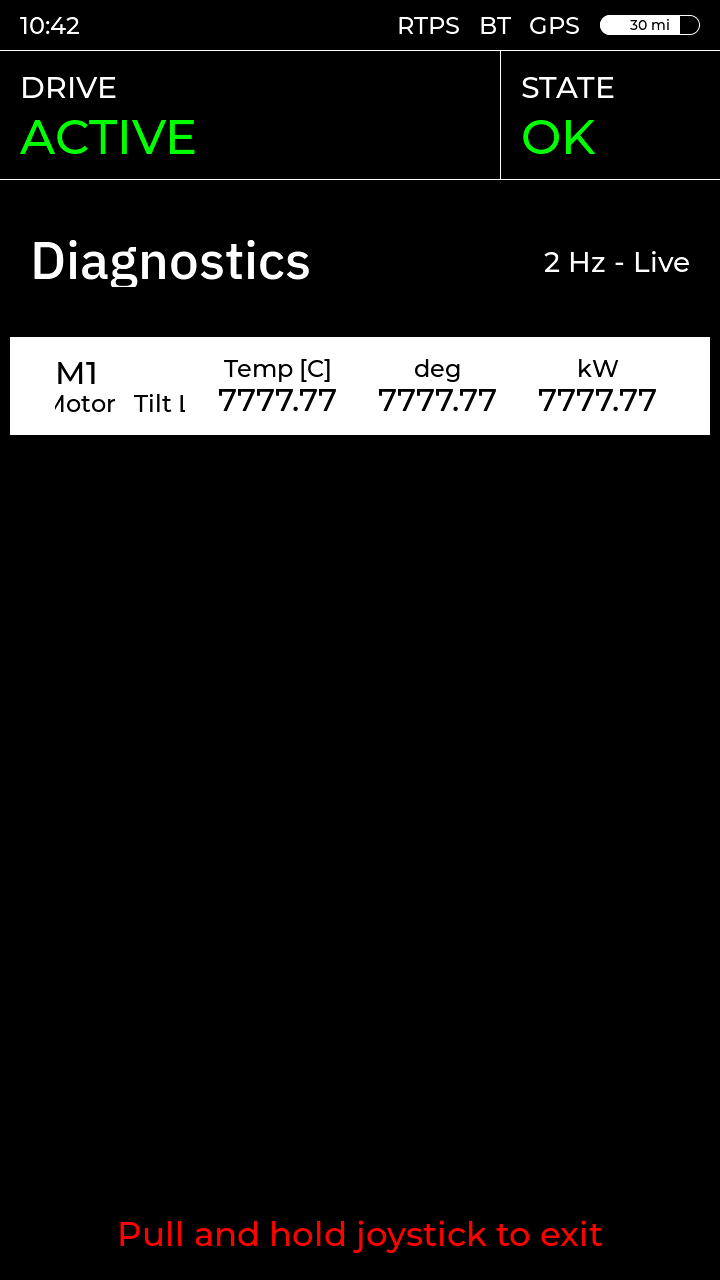
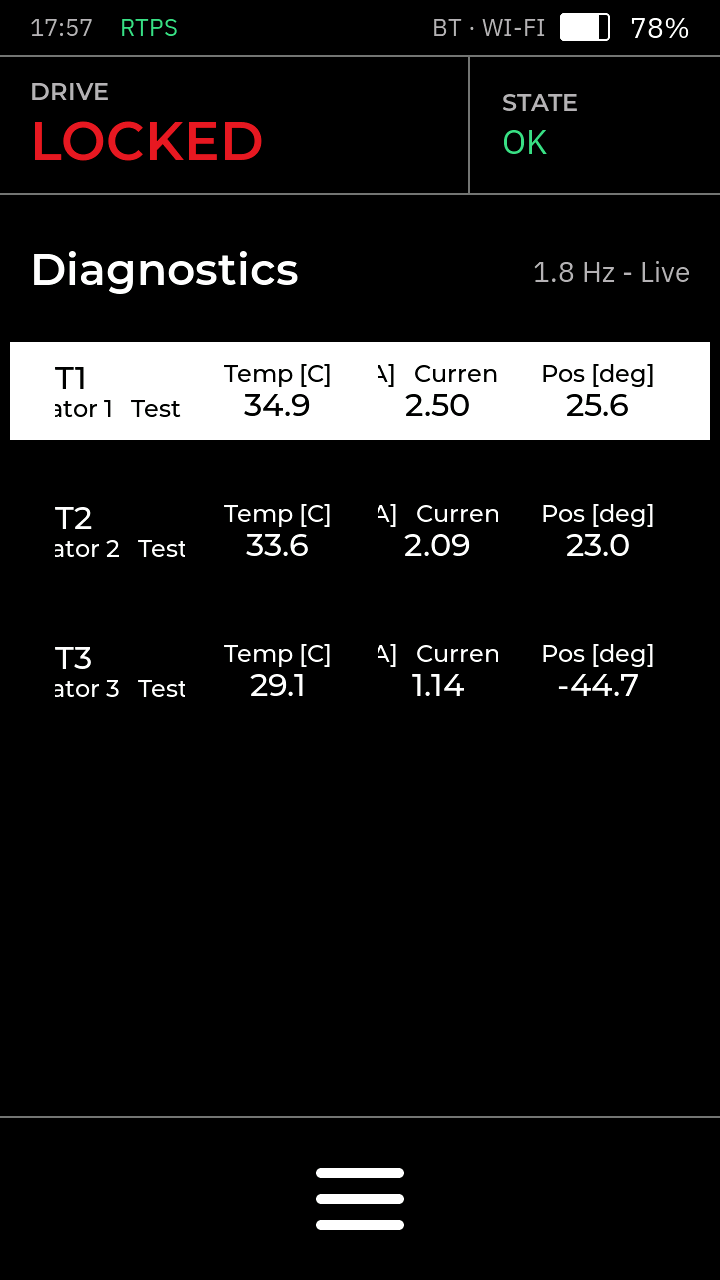
Document the spec-V2 UI: README screens and menu, and how the UI works
- README: new screenshots from the board (the Locked screen, the burger
  menu, Drive, both Seat pages, Skunk Works, UI Settings, Diagnostics,
  Log, the bench gate, DEBUG ACTUATORS, Joystick). The menu and the UI
  Settings rows are tables. Driving is described as it now is: hold the
  button, the MIB decides. The drive modes map to their profiles. Screens
  of the old pager are removed.
- docs/ui-architecture.md: how the UI works, for someone who wrote the
  spec rather than the code. It covers the path from the spec to pixels,
  the chrome and the per-screen menu instances, how a menu row is wired
  and how to add one, focus groups, grids and holds, how the chair's
  state reaches the screen, and the tools for seeing it without the panel.

diff --git a/docs/ui-architecture.md b/docs/ui-architecture.md
@@ -1,0 +1,253 @@
+# How the UI works
+
+This explains the HMI's user interface, from the spec PDF to a finger on the panel: where
+the screens come from, how the burger menu is built and wired, how touch and the joystick
+move around it, and how the chair's state reaches the screen. It is written for someone who
+knows the spec and wants to know where each part of it lives in the code.
+
+Everything below lives in `main/main.cpp` unless a file is named.
+
+## 1. From the spec to pixels
+
+The screens are not drawn by hand in the firmware. They are described once, in code, in
+the UI repository ([pace-hmi-gui](https://github.com/rammp-org/pace-hmi-gui)), and exported
+to C that the firmware compiles.
+
+```mermaid
+flowchart LR
+  spec["RAMMP-UI-Spec-V2.pdf<br/>(pace-hmi-gui)"] -->|numbers copied into| build["tools/build_ui.py<br/>(pace-hmi-gui)"]
+  build -->|writes| spj["pace-hmi-ui.spj<br/>SquareLine project"]
+  spj -->|SquareLine CLI export| cfiles["ui_c_files/<br/>generated C"]
+  cfiles -->|import_ui.ps1| ui["components/ui/<br/>(this repo, never edited)"]
+  ui -->|ui_* widgets, bound by name| fw["main/main.cpp<br/>behaviour"]
+```
+
+- **`tools/build_ui.py`** is the design. Every screen, component, size, font and colour is a
+  line of Python with the spec's numbers in it (`build_locked`, `build_drive`,
+  `build_menuoverlay`, `build_seat_axis`, ...). Running it rewrites the SquareLine project
+  and, with `--export-to ../ui_c_files`, exports the C.
+- **`import_ui.ps1`** (this repo) mirrors that export into `components/ui/`, converts the
+  images the software renderer cannot draw, and runs **`scripts/ui_contract.py`**, which
+  checks that every widget `main.cpp` reaches for still exists with the parent and text it
+  expects. A menu row that moved, or a widget that was renamed, fails the import instead of
+  silently binding to the wrong thing.
+- **`components/ui/`** is generated. Editing it by hand is lost on the next import.
+- **`main.cpp`** gives the widgets their behaviour. It finds them by name: a screen widget
+  is a global `ui_<Name>` (`ui_SeatBackButton`), a widget inside a component is reached with
+  `ui_comp_get_child(instance, UI_COMP_<COMPONENT>_<CHILD>)`.
+
+The design is decoupled from the code in one direction only: `build_ui.py` can move, resize
+and restyle anything freely, but renaming or removing a widget the firmware binds to needs
+a matching change in `main.cpp` and in `ui_contract.py`.
+
+## 2. What is on the panel
+
+Every screen is 720 x 1280 and shares one layout:
+
+| band | y | what |
+| --- | --- | --- |
+| TopBar | 0-55 | clock, RTPS link, battery |
+| DriveBand | 55-195 | DRIVE (LOCKED / ACTIVE) and STATE; DRIVE is also the "home" button |
+| body | 195-1116 | the screen's own content, 921 px |
+| MenuKey | 1116-1280 | the burger key |
+
+Two layers sit over the body, hidden until needed: the **MenuOverlay** (the burger menu)
+and the **ErrorBanner** (warnings and refusals). These five pieces, TopBar, DriveBand,
+ErrorBanner, MenuKey and MenuOverlay, are the *chrome*.
+
+| screen | spec | reached from |
+| --- | --- | --- |
+| LockedScreen | 01 | boot; Drive row while locked; DRIVE in the band |
+| DriveScreen | 02 | holding the stick button on Locked, once the MIB grants it |
+| SeatScreen | 04, 04b | menu: Seat Functions |
+| BenchGateScreen | - | menu: Bench (the PIN, then DEBUG ACTUATORS) |
+| DiagnosticsScreen | - | menu: Diagnostics |
+| JoystickScreen | - | menu: Joystick (the stick test and CALIBRATE) |
+| LogScreen | - | menu: Log |
+| SkunkWorksScreen | - | menu: Skunk Works |
+| SettingsScreen | - | menu: UI Settings; after the PIN, DEBUG ACTUATORS |
+
+SettingsScreen, SkunkWorksScreen and DiagnosticsScreen are built when first opened and
+destroyed on the way out ("Screens built on demand" in `main.cpp`): their rows are
+generated at runtime, and keeping them all resident ran internal RAM out.
+
+## 3. The burger menu
+
+### One component, one instance per screen
+
+The menu is a SquareLine *component*, `MenuOverlay`, drawn by `build_menuoverlay` in
+`build_ui.py`: a 720 x 921 panel with eight rows, 115 px each. Each row is a `Row<n>` panel
+holding a `RowGround<n>` with a `RowLabel<n>` and a chevron.
+
+LVGL screens are separate object trees, so a widget cannot appear on two of them. Every
+screen therefore has its own instance of all the chrome, `MenuOverlay1` ... `MenuOverlay11`,
+each with its own eight rows. The firmware treats them as one menu:
+
+- **`kChrome`** (in `app_main`) lists every screen's TopBar, DriveBand, MenuKey and
+  MenuOverlay.
+- **`nav_attach_chrome`** wires one screen's set: the key's click and key events, and for
+  each of the eight rows the click, the stick's arrows, the cursor and pressed looks, and,
+  on Drive and Seat Functions, the observers that grey the row while the MCB could not act
+  on it.
+- **`nav_chrome[]`** remembers which key and overlay belong to which screen, so "the menu of
+  the screen that is up" is one lookup (`nav_chrome_of`).
+
+### Rows are positions, destinations are names
+
+The menu's order is the order of `rows` in `build_menuoverlay`. The firmware mirrors it in
+one enum:
+
+```cpp
+enum NavDest {
+  NAV_DRIVE,    // "Drive"
+  NAV_SEAT,     // "Seat Functions"
+  NAV_BENCH,    // "Bench", behind the PIN gate
+  ...
+};
+```
+
+A row's index is its `NavDest`: `nav_row_cb` receives the index and `nav_go` switches on it.
+`scripts/ui_contract.py` checks that `RowLabel<n>` still reads what the enum expects, so a
+reordered export cannot open the wrong screen.
+
+**To add, remove or reorder a row**, change all of these together:
+
+1. `rows` in `build_menuoverlay` (pace-hmi-gui), then export and import.
+2. `NavDest` and `kNavRowIds` in `main.cpp` (a new row also needs `UI_COMP_MENUOVERLAY_ROW<n>`).
+3. The `case` in `nav_go`, and its line in `nav_go`'s `dest_screens` table.
+4. `cui_RowLabel<n>` in `scripts/ui_contract.py`, and `MENU_ROWS` in `scripts/hmi_ui.py`.
+
+### What happens on a pick
+
+```mermaid
+sequenceDiagram
+  participant U as User
+  participant K as MenuKey
+  participant M as MenuOverlay
+  participant N as nav_go
+  participant S as next screen
+  U->>K: tap, or stick button with the key focused
+  K->>M: nav_open_menu: show, fill menu_group, focus row 1
+  U->>M: tap a row, or stick button on it
+  M->>M: row goes negative for 300 ms (kRowPressMs)
+  M->>N: nav_press_done_cb
+  N->>S: _ui_screen_change
+  S->>S: SCREEN_LOADED -> nav_arrive -> nav_enter_screen
+  S->>S: nav_drop_menu replays the press and hides its overlay
+```
+
+- A greyed row (Drive or Seat Functions while the MCB cannot act) refuses on the spot: the
+  menu stays open, the refusal sounds, and the reason waits on the banner underneath.
+- While **driving**, the key does not open the menu. It asks the MIB to stop
+  (`drive_exit_ask(true)`), and the menu opens over the Locked screen once driving has
+  actually stopped. If the MIB keeps driving, the Drive screen stays and says EXIT REFUSED.
+
+## 4. Moving around: touch, stick and button
+
+There are three inputs, and all of them end up as LVGL events on widgets.
+
+| input | where it comes from | becomes |
+| --- | --- | --- |
+| touch | GT911, polled by LVGL | taps and presses on whatever is under the finger |
+| stick | ADC task, ~30 Hz | a key (UP/DOWN/LEFT/RIGHT) for the focused widget |
+| stick button | GPIO48 | a short press selects (ENTER); a hold is a gesture |
+
+### Focus groups
+
+The stick moves a *cursor*: LVGL's focus within a **group**. Each screen has its own group
+of the widgets the stick may visit, and `nav_use_group` hands the stick that group, always
+with the screen's burger key appended last, so "down past the bottom" reaches the key.
+
+| group | screen |
+| --- | --- |
+| `menu_group` | the open menu: eight rows, then the key (wraps) |
+| `seat_group`, `seat_adjust_group` | Seat: the function buttons; the adjustment page |
+| `rd_group` | BenchGate: the PIN pad |
+| `setting_group`, `actions_group`, `diag_group` | UI Settings, Skunk Works, Diagnostics |
+| `log_view_group()` (`main/log_view.cpp`) | Log |
+| `joystick_group` | everything else: Locked, Drive, Joystick |
+
+`nav_arrive` runs whenever a screen comes up (SCREEN_LOADED, or by hand when a row picks
+the screen already showing): it closes the menu, picks the screen's group and puts the
+cursor on the first item. A backstop timer re-enters the screen if the stick is ever left
+with nothing focused, and logs `nav: the stick had nothing focused` when it does.
+
+### Grids and lists
+
+LVGL's own focus order is a flat list, which does not match a 2-D screen. Two patterns
+cover every screen:
+
+- **Grids** (`ButtonGrid`, `grid_key_cb`): the seat pages, the PIN pad and the Skunk Works
+  tiles. Each keeps a row/column cursor and moves it the way the buttons are laid out.
+- **Lists** (Settings, Diagnostics, Log): UP/DOWN walks the rows; the list scrolls to keep
+  the focused row in view (scroll-on-focus, which is why each list is sized to its window
+  in `build_ui.py`).
+
+### Looks
+
+The spec's rule is that selection is the *negative* of the resting look, never a colour.
+`negative()` in `build_ui.py` gives a widget inverted colours for PRESSED and CHECKED (and
+FOCUSED on menu rows). LVGL does not pass a state to a widget's children, so the firmware
+mirrors it down to the label (`nav_mirror_states`). Buttons show the cursor as a ring
+around them (`nav_focus_ring`).
+
+### Holds
+
+Three things need a hold rather than a press, driven by `HoldGesture` and `hold_poll`:
+
+| gesture | input | screen | does |
+| --- | --- | --- | --- |
+| `unlock_gesture` | stick button | Locked | asks the MIB to drive (the ring fills, then spins) |
+| `drive_exit_gesture` | stick button | Drive | asks the MIB to stop |
+| `calibrate_gesture` | stick button, or a finger on CALIBRATE | Joystick | starts or cancels calibration |
+
+A hold has a 500 ms grace before it starts filling, so a tap (which selects) never ticks
+it, and an input must be let go before it can start another hold ("let go first"), so the
+hold that enters driving cannot roll on into the exit.
+
+## 5. The chair's state on screen
+
+The MIB owns the chair's state and the HMI only shows it and asks for changes. The data path
+is LVGL *subjects* (observable values) and *observers* (callbacks bound to widgets):
+
+```mermaid
+flowchart LR
+  mib["MIB / MCB"] -- "MibStatus, Diagnostics<br/>(RTPS)" --> rtps["main/rtps_comms.cpp"]
+  rtps --> subj["subjects:<br/>mib_state, rtps_link, drive_profile,<br/>seat_axis_value, error_text, ..."]
+  subj --> obs["observers"]
+  obs --> w["labels, bands, banners,<br/>greyed rows, mode buttons"]
+  w -- "taps, holds" --> ask["drive_ask, seat_request,<br/>drive_publish"]
+  ask -- "DriveCommand, SeatCommand" --> mib
+```
+
+- **Nothing on screen claims what the chair has not confirmed.** A drive mode button lights
+  when `MibStatus.activeProfile` says so, not when it is tapped; a seat number moves when
+  the next status says the seat moved.
+- **`drive_screen_follow_state`** keeps the screens honest: the Drive screen is up exactly
+  while the MIB says ENABLED. Driving stopping by itself brings back Locked with the reason.
+- **Banners**: every warning goes through `banner_show`, which also plays the refusal
+  sound when one appears on the screen in front.
+
+## 6. Settings, sounds and the rest
+
+- **UI Settings** rows come from `main/settings_spec.h`, one line each; the firmware builds
+  a `SettingRow` per line and saves every value to `/storage/settings.txt`. Adding a
+  setting is a table line, its names in `kSettingParamNames`, its subject in
+  `kSettingParamValue`, and a `case` in `setting_store_observer` if it needs applying.
+- **Skunk Works** tiles come from `main/actions_spec.h`, one line each.
+- **Sounds**: `play_click` for a tap, a stick select or a completed hold, and
+  `play_refusal` (two quick clicks) for a greyed press or an arriving warning. The
+  **Sounds** setting silences all of them except warnings.
+- **Themes**: every colour in the design is bound to the theme (Dark, Day), so a theme
+  switch recolours every screen at once.
+- **Rendering**: LVGL draws straight into the panel's two frame buffers (DIRECT mode) and
+  swaps them at vsync. **Flip screen** renders into a PSRAM frame instead and has the PPA
+  turn it 180 degrees into the panel buffer.
+
+## 7. Seeing it without looking at the panel
+
+- `python tools/shot/shoot.py` (pace-hmi-gui) renders every screen of the export through
+  real LVGL on the PC, before anything reaches the board.
+- With `CONFIG_HMI_REMOTE_UI` (off by default; set it only in your local `sdkconfig`), the
+  board serves its screen and takes input over TCP 3333: `scripts/hmi_ui.py shot`, `tap`,
+  `key`, `walk`. `scripts/rtps_mcb_sim.py` or `rtps_mcb_gui.py` play the MIB alongside.

diff --git a/README.md b/README.md
@@ -1,6 +1,6 @@
 # pace-hmi-fw
 
-<img src="docs/screenshots/MainScreenFlex.png" alt="Main Screen" width="260">
+<img src="docs/screenshots/LockedScreen.png" alt="Locked screen" width="200"> <img src="docs/screenshots/MenuOverlay.png" alt="Burger menu" width="200"> <img src="docs/screenshots/DriveScreen.png" alt="Drive screen" width="200">
 
 Firmware for the RAMMP wheelchair HMI: an M5Stack Tab5 (ESP32-P4) on the [RAMMP HMI PCB](https://github.com/rammp-org/pace-hmi-pcb).
 
@@ -8,7 +8,7 @@ Firmware for the RAMMP wheelchair HMI: an M5Stack Tab5 (ESP32-P4) on the [RAMMP 
 - Tab5 (ESP32-P4), 720x1280 portrait touch panel
 - 3D hall joystick (X / Y / twist) on the ADCs, up to 4 buttons on GPIO
 - W5500 SPI Ethernet for RTPS
-- WIP: haptic motor over I2C
+- DRV2605 haptic motor over I2C
 
 ## Build and flash
 - Clone with the shared RTPS spec: `git clone --recursive` (or `git submodule update --init`).
@@ -17,38 +17,54 @@ Firmware for the RAMMP wheelchair HMI: an M5Stack Tab5 (ESP32-P4) on the [RAMMP 
 - Or put the [release](https://github.com/rammp-org/pace-hmi-fw/releases) images in `precompiled/` and run `.\flash_precompiled.ps1` (needs esptool v5+).
 
 ## Screens
-- Joystick only: **push up and hold** to enter, **pull and hold** (or hold the button) to leave. The bottom prompt says which.
-- The UI is designed in SquareLine Studio ([pace-hmi-gui](https://github.com/rammp-org/pace-hmi-gui)); `components/ui/` is its export (`import_ui.ps1`). Don't edit it here.
+
+The UI follows RAMMP UI spec V2. Every screen has the same frame: the status bar, the **DRIVE / STATE** band, the screen's own content, and the **burger key** at the bottom, which opens the menu. [docs/ui-architecture.md](docs/ui-architecture.md) explains how it all works: where the screens come from, how the menu is built, how touch and the joystick move around, and how the chair's state reaches the screen.
+
+- **Driving**: on the Locked screen, **hold the joystick button** until the ring closes. The MIB decides: the Drive screen opens only once it says the chair is driving. Hold the button again on the Drive screen to stop. While driving, the burger key asks the MIB to stop first, and the menu opens once it has.
+- **Moving around**: touch, or the joystick. Push to move the highlight, press the button to select. Down past the last item reaches the burger key.
+- **Refusals**: a greyed row or button refuses with a double click (heard and felt), and a banner says why.
+- The UI is designed in [pace-hmi-gui](https://github.com/rammp-org/pace-hmi-gui) (`tools/build_ui.py` + SquareLine Studio); `components/ui/` is its export, brought in with `import_ui.ps1`. Don't edit it here.
 
 | | | |
 |:--:|:--:|:--:|
-| <img src="docs/screenshots/BootScreen.png" width="200"> | <img src="docs/screenshots/MainScreenFlex.png" width="200"> | <img src="docs/screenshots/DriveScreen.png" width="200"> |
-| Boot splash | Home pager | Drive: speed, drive mode |
-| <img src="docs/screenshots/SeatAdjustmentFlexScreen.png" width="200"> | <img src="docs/screenshots/GenericActionsScreen.png" width="200"> | <img src="docs/screenshots/SpecificSettingScreen.png" width="200"> |
-| Seat functions | Generic actions | Setting page (brightness, actuators) |
-| <img src="docs/screenshots/RDScreen.png" width="200"> | <img src="docs/screenshots/DiagnosticsScreen.png" width="200"> | <img src="docs/screenshots/LogScreen.png" width="200"> |
-| PIN before DEBUG ACTUATORS | Live MCB diagnostics | System logs |
-| <img src="docs/screenshots/JoystickTest.png" width="200"> | | |
-| Joystick test and calibration | | |
+| <img src="docs/screenshots/LockedScreen.png" width="200"> | <img src="docs/screenshots/MenuOverlay.png" width="200"> | <img src="docs/screenshots/DriveScreen.png" width="200"> |
+| Locked: hold the button to drive | The burger menu | Drive: speed, range, drive mode |
+| <img src="docs/screenshots/SeatScreen.png" width="200"> | <img src="docs/screenshots/SeatAxisScreen.png" width="200"> | <img src="docs/screenshots/SkunkWorksScreen.png" width="200"> |
+| Seat Functions | One motion: jog, presets, "<" back | Skunk Works: one-press actions |
+| <img src="docs/screenshots/SettingsScreen.png" width="200"> | <img src="docs/screenshots/DiagnosticsScreen.png" width="200"> | <img src="docs/screenshots/LogScreen.png" width="200"> |
+| UI Settings | Live MCB diagnostics | System log |
+| <img src="docs/screenshots/BenchGateScreen.png" width="200"> | <img src="docs/screenshots/BenchMotorsScreen.png" width="200"> | <img src="docs/screenshots/JoystickScreen.png" width="200"> |
+| Bench: the PIN | DEBUG ACTUATORS | Joystick test and CALIBRATE |
 
-- **Drive / Seat**: only enter while the MCB link is up and its state is OK; otherwise a red banner says why.
-- **Generic actions**: one row per entry in `main/actions_spec.h` (haptic test, self test, seat up, restart).
+### The burger menu
 
-## Settings menu
+| row | opens |
+| --- | --- |
+| Drive | the Drive screen while driving, else the Locked screen; greyed while the MCB could not drive |
+| Seat Functions | the four seat motions; greyed while the MCB could not move the seat |
+| Bench | the PIN (1234), then DEBUG ACTUATORS: step each actuator with - / + |
+| Diagnostics | live readings from the MCB |
+| Joystick | the stick test; press and hold CALIBRATE (or the stick button) to calibrate |
+| Log | the last 500 serial log lines |
+| Skunk Works | one-press actions from `main/actions_spec.h`: haptic test, self test, seat up, FPS counter, restart |
+| UI Settings | the settings below |
+
+**DRIVE** in the band goes home from anywhere.
+
+### UI Settings
 
 | row | what it does |
 | --- | --- |
-| CHANGE THEME | switch the colour theme (saved) |
-| SCREEN BRIGHTNESS | backlight 5-100 % (saved); the side button and RTPS can set it too |
-| DIAGNOSTICS | live readings from the MCB, see below |
-| DEBUG ACTUATORS | PIN, then step each actuator with -/+ (the MCB moves it) |
-| SELF TEST | checks the HMI; results on screen and on serial |
-| SYSTEM LOGS | the last 500 serial log lines |
-| FPS COUNTER | show the render rate |
-| HAPTIC TEST | buzz the vibration motor |
-| Joystick Test → CALIBRATE | 6-step stick calibration, saved to flash |
+| Brightness | backlight 5-100 %; the side button and RTPS can set it too |
+| Theme | Dark or Day |
+| Menu slide | animate the menu opening (off = instant) |
+| Flip screen | turn the picture and touch 180 degrees, for a unit mounted upside down |
+| Stick sensitivity | 1-10: how far the stick moves before the highlight does |
+| Stick left/right, Stick fwd/back | mirror an axis |
+| Stick axes | swap X and Y |
+| Sounds | touch and joystick clicks; warnings sound either way |
 
-Saved settings live in LittleFS (`/storage`), so they survive a reboot.
+Every row is one line in `main/settings_spec.h`, and every value is saved in LittleFS (`/storage`), so it survives a reboot. The stick mapping rows are refused while driving.
 
 ## RTPS
 
@@ -95,9 +111,9 @@ How the messages reach the screens:
 - No MibStatus for 2 s → "RTPS LINK LOST"; Drive and Seat are refused.
 - `MibSystemState` is the interlock: the chair drives only in `ENABLED`, and the MIB disables manual seat control while it is driving, so the seat screen needs `IDLE`. `INITIALIZING` and `ERROR` bar both.
 - The MIB decides whether the chair drives, both ways. The DriveScreen is a view of one fact: it opens whenever the state is `ENABLED` and closes when it stops being `ENABLED`, whoever asked — so the screen can never disagree with the chair.
-- Holding the stick up sends a **DriveCommand** and waits. Leaving is a request too: the exit gesture sends `DISABLE` and the screen closes only when the MIB actually stops, so a refused exit keeps you on the drive screen.
-- Picking a drive profile sends a `DriveCommand` carrying it, and the three buttons highlight `MibStatus.activeProfile` — what the MIB reports, never what was pressed. A profile the chair refuses never lights up.
-- Three refusals get the ErrorWarningPanel for 3 s, with the MIB's own `error_message` when it sent one: **DRIVE REFUSED: NOT GRANTED** (asked, never got `ENABLED`) and **DRIVING STOPPED** (the MIB disabled driving by itself) on the home screen, and **EXIT REFUSED** on the drive screen itself.
+- Holding the joystick button on the Locked screen sends a **DriveCommand** and waits. Leaving is a request too: the button hold on the Drive screen, or the burger key there, sends `DISABLE`, and the screen closes only when the MIB actually stops, so a refused exit keeps you on the drive screen.
+- Picking a drive mode (Manual = `HIGH`, Assist = `NORMAL`, Auto = `LOW`) sends a `DriveCommand` carrying it, and the three buttons highlight `MibStatus.activeProfile` — what the MIB reports, never what was pressed. A profile the chair refuses never lights up.
+- Three refusals get the error banner for 3 s, with the MIB's own `error_message` when it sent one: **DRIVE REFUSED: NOT GRANTED** (asked, never got `ENABLED`) and **DRIVING STOPPED** (the MIB disabled driving by itself) on the Locked screen, and **EXIT REFUSED** on the drive screen itself.
 - **MibStatus.currentSeatState** → the numbers on the seat screen and the DEBUG ACTUATORS rows. The MIB owns every position: a press asks, and the number moves when the next status says the seat did. A refusal reaches the HMI as an axis that did not move — there is no per-request verdict on the wire.
 - Each seat press sends a **SeatCommand** with an **absolute** target, so a step button and a preset are the same message, and a lost or repeated one cannot drift the seat.
 - The wire carries the seat in whole units (degrees, millimetres); the screens step and draw raw integers, converted at the wire boundary by `seat_raw()` / `seat_units()`.
@@ -133,7 +149,8 @@ One row in `messages/joystick_message.hpp` (rammp-rtps); the HMI screens and the
 | `python scripts/rtps_selftest.py` | runs the self test over RTPS (exit 0 = pass) |
 | `python scripts/rtps_mcb_sim.py` | CLI version of the GUI (`--cycle` walks every state) |
 | `python scripts/rtps_adc_plot.py` | live joystick plot (needs matplotlib) |
-| `cd sim; python run.py` | the screens on a PC, no board ([sim/README.md](sim/README.md)) |
+| `python scripts/hmi_ui.py shot out.png` | the board's screen, and taps / keys / `walk`, over TCP; needs `CONFIG_HMI_REMOTE_UI` in your local `sdkconfig` (never in `sdkconfig.defaults`) |
+| `cd sim; python run.py` | the old screens on a PC, parked since spec V2 ([sim/README.md](sim/README.md)) |
 
 <img src="docs/screenshots/McbSimGui.png" alt="MCB simulator" width="480">
 
